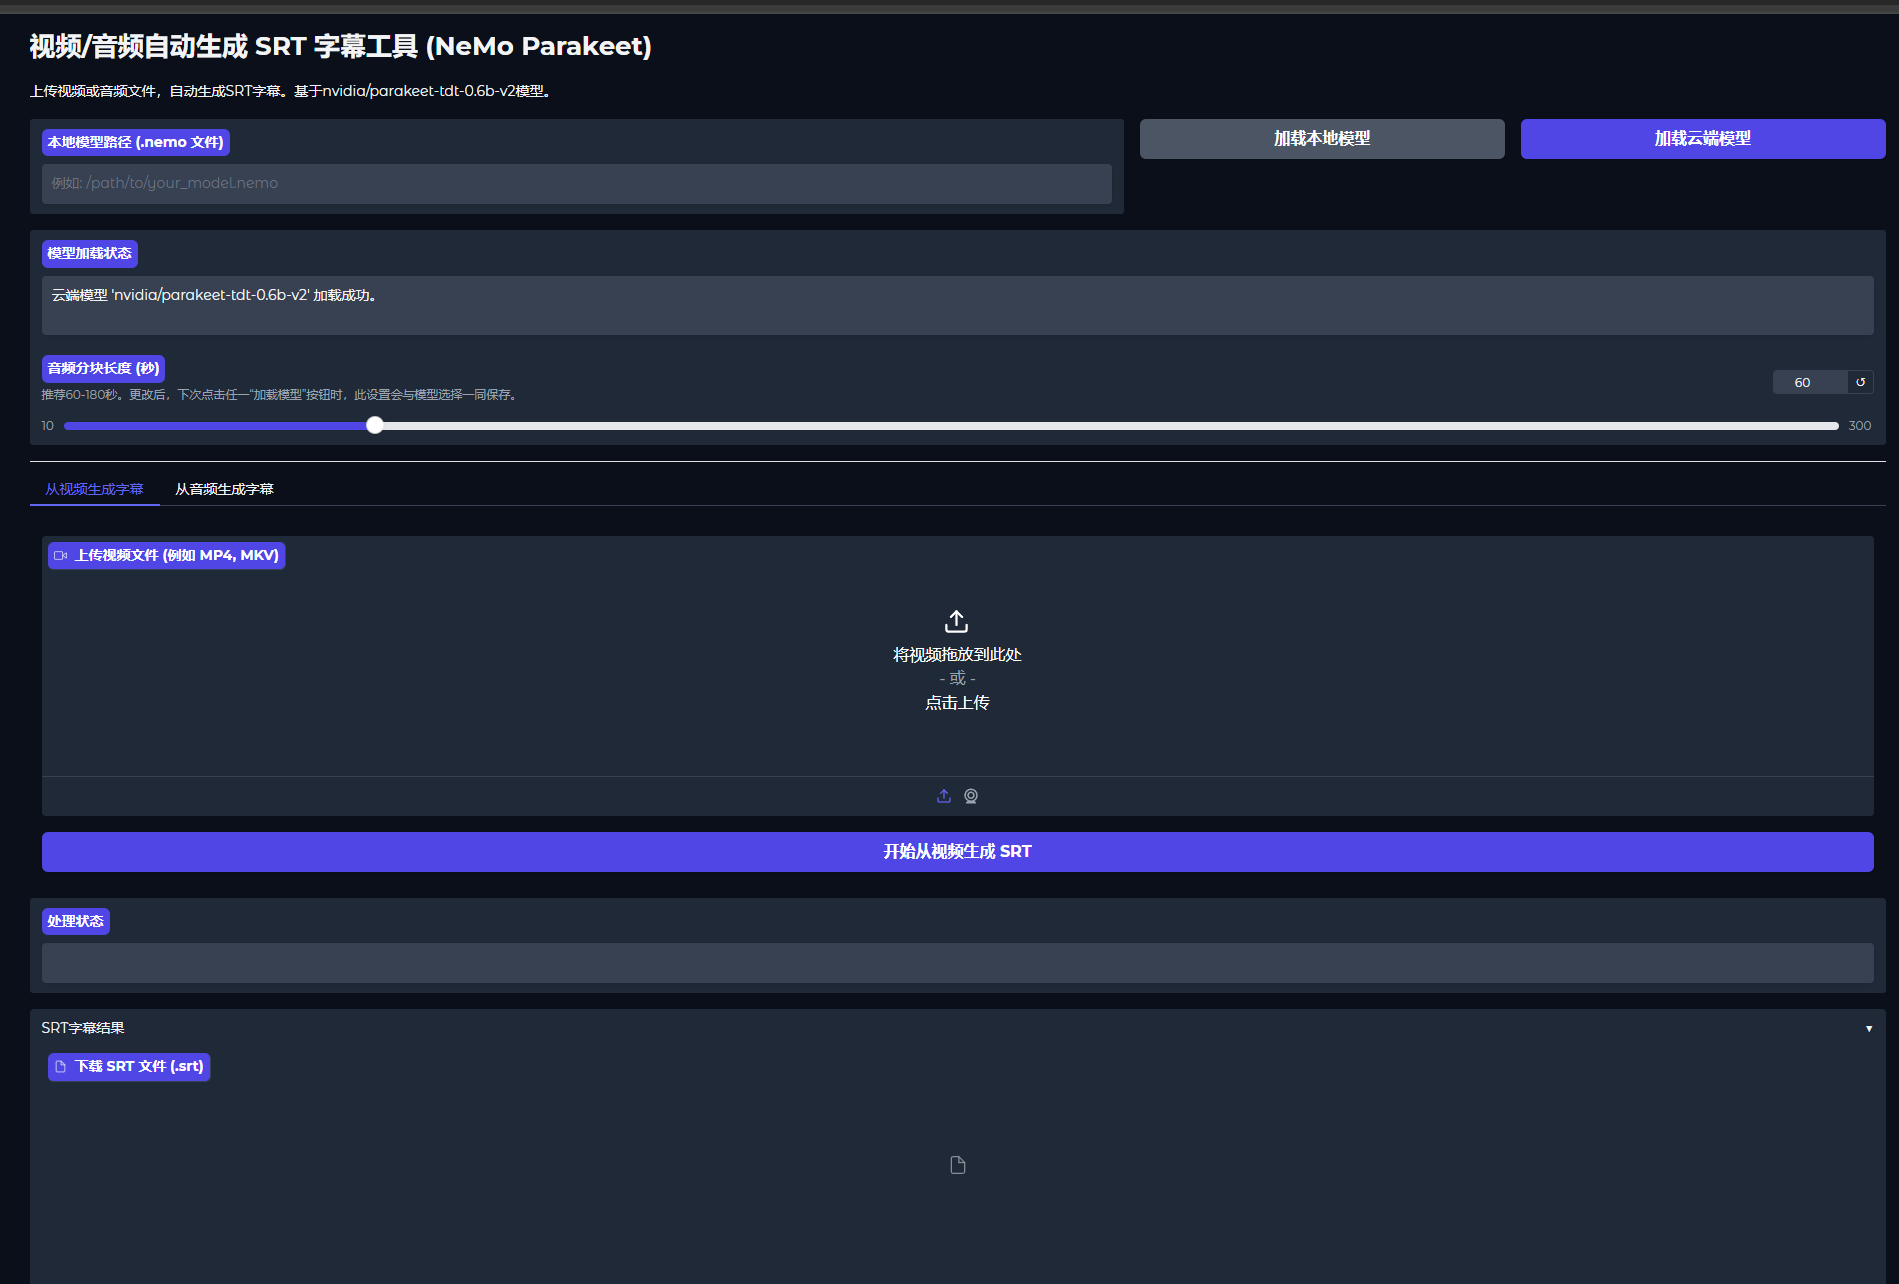
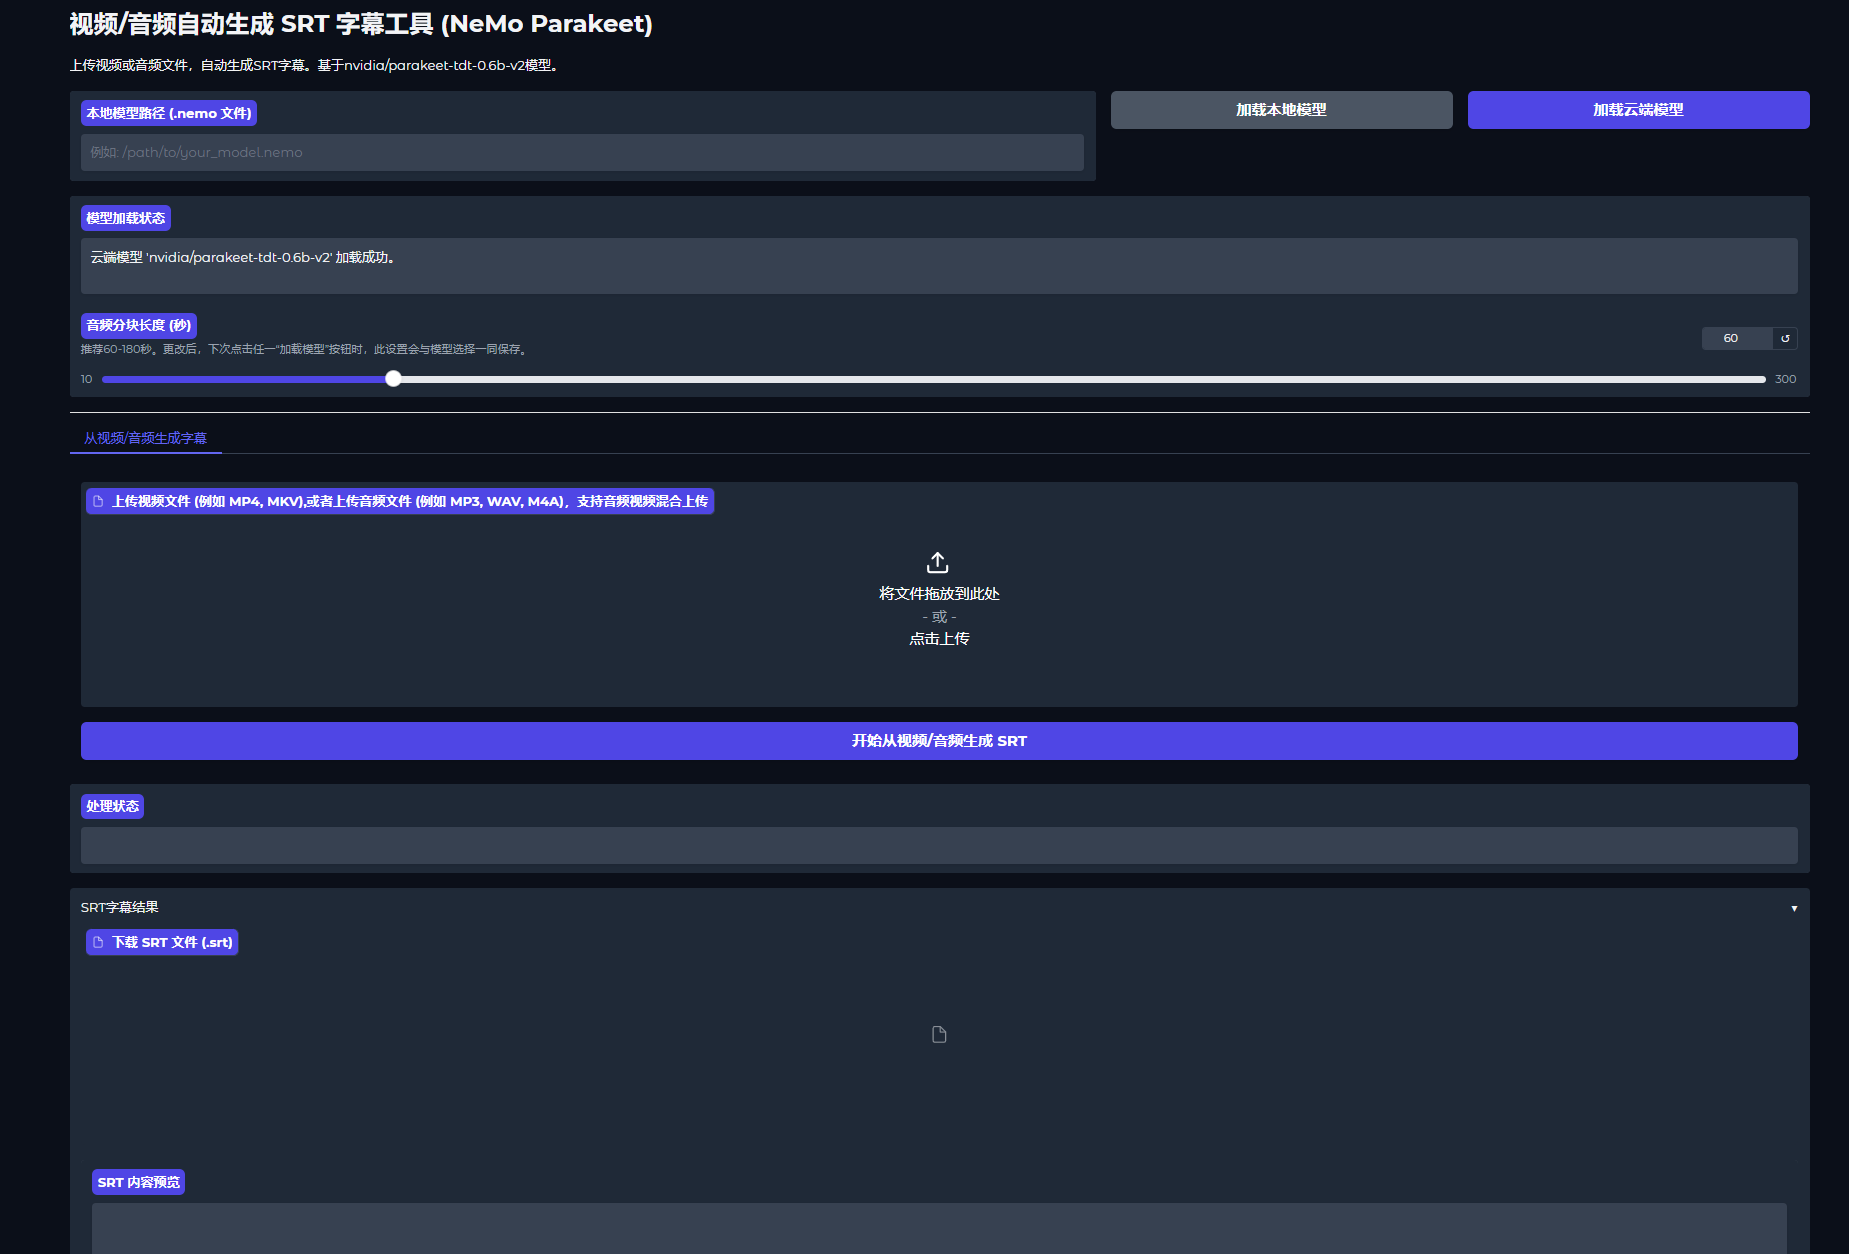
支持了批量转录，混合转录，文件名一致性

diff --git a/main.py b/main.py
@@ -11,8 +11,12 @@ import json
 CONFIG_FILENAME = "config.json"
 asr_model = None  # 初始化模型变量
 device = None     # 初始化设备变量
+base_dir = os.path.dirname(os.path.abspath(__file__))
+subtitles_folder_name = "subtitles"
+subtitles_folder_path = os.path.join(base_dir, subtitles_folder_name)
 
 # --- 配置管理 ---
+
 def get_config_file_path():
     """获取脚本目录中配置文件的绝对路径。"""
     try:
@@ -154,14 +158,18 @@ def check_ffmpeg():
         print("错误：ffmpeg 未检测到或未正确安装。请安装 ffmpeg 并确保其在系统 PATH 中。")
         return False
 
-def extract_audio_from_video(input_video_path: str) -> str:
+def extract_audio_from_video(input_media_path: str) -> str:
+    """
+    使用 ffmpeg 从视频文件中提取音频并转换为 WAV 格式。
+    返回提取的音频文件路径，或在失败时返回 None。
+    """
     if not check_ffmpeg(): return None
     temp_audio_file = tempfile.NamedTemporaryFile(suffix=".wav", delete=False)
     output_audio_path = temp_audio_file.name
     temp_audio_file.close()
 
     ffmpeg_command = [
-        'ffmpeg', '-i', input_video_path, '-vn', '-acodec', 'pcm_s16le',
+        'ffmpeg', '-i', input_media_path, '-vn', '-acodec', 'pcm_s16le',
         '-ar', '16000', '-ac', '1', '-y', output_audio_path
     ]
     try:
@@ -220,6 +228,16 @@ def format_srt_time(seconds):
     return f"{hours:02}:{minutes:02}:{secs:02},{milliseconds:03}"
 
 def transcribe_audio_in_chunks(model, audio_path: str, chunk_length_ms: int) -> list:
+    """
+    将音频文件分块转录并返回带有全局时间戳的段列表。
+    ARGS:
+        model: 已加载的 NeMo ASR 模型。
+        audio_path: 音频文件路径 (假设为 WAV)。
+        chunk_length_ms: 每块的长度（毫秒）。
+    RETURNS:
+        包含 {'start': float, 'end': float, 'segment': str} 的列表。
+    
+    """
     if model is None:
         print("模型未加载，无法进行转录。")
         return []
@@ -286,6 +304,13 @@ def transcribe_audio_in_chunks(model, audio_path: str, chunk_length_ms: int) -> 
     return all_segment_timestamps
 
 def generate_srt_content(segment_timestamps: list) -> str:
+    """
+    根据时间戳列表生成 SRT 格式的字幕内容。
+    ARGS:
+        segment_timestamps: 包含 {'start': float, 'end': float, 'segment': str} 的列表。
+    RETURNS:
+        SRT 格式的字符串。
+    """
     srt_content = ""
     for i, stamp in enumerate(segment_timestamps):
         subtitle_number = i + 1
@@ -297,115 +322,75 @@ def generate_srt_content(segment_timestamps: list) -> str:
     return srt_content
 
 # --- Gradio 处理函数 ---
-def process_video_for_srt(video_file_obj, chunk_length_s: int):
+def process_media_for_srt(media_file_objs: list, chunk_length_s: int):
     if asr_model is None:
         yield "错误：ASR 模型未加载。请先加载模型。", None, ""
         return
-    if video_file_obj is None:
-        yield "请上传一个视频文件。", None, ""
+    if media_file_objs is None:
+        yield "请上传至少一个视频文件。", None, ""
         return
     
-    input_video_path = video_file_obj # Gradio Video 对象具有 .name 属性表示路径
-    print(f"开始处理视频文件: {input_video_path}")
+    output_srt_paths_for_downloads = []
     start_time_total = time.time()
-    extracted_audio_path = None
-    output_srt_path_for_download = None # 用于 Gradio File 组件
 
-    try:
-        yield "状态：正在提取音频...", None, ""
-        extracted_audio_path = extract_audio_from_video(input_video_path)
-        if not extracted_audio_path:
-            yield "错误：音频提取失败。请检查视频文件或ffmpeg安装。", None, ""
-            return
-
-        chunk_length_ms = chunk_length_s * 1000
-        yield f"状态：正在转录音频 (分块大小: {chunk_length_s}秒)...", None, ""
-        segment_timestamps = transcribe_audio_in_chunks(asr_model, extracted_audio_path, chunk_length_ms)
-
-        if not segment_timestamps:
-            yield "错误：转录未生成有效的分段时间戳。", None, ""
-            return
-
-        yield "状态：正在生成 SRT 内容...", None, ""
-        srt_content = generate_srt_content(segment_timestamps)
-
-        with tempfile.NamedTemporaryFile(mode="w", encoding='utf-8', suffix=".srt", delete=False) as tmp_srt_file:
-            tmp_srt_file.write(srt_content)
-            output_srt_path_for_download = tmp_srt_file.name
+    for media_file_obj in media_file_objs:
+        input_media_path = media_file_obj # Gradio Video 对象具有 .name 属性表示路径
+        print(f"开始处理视频/音频文件: {input_media_path}")
         
-        elapsed_time_total = time.time() - start_time_total
-        status_message = f"处理完成。总耗时 {elapsed_time_total:.2f} 秒。"
-        print(f"{status_message} SRT 文件位于: {output_srt_path_for_download}")
-        yield status_message, output_srt_path_for_download, srt_content
-
-    except Exception as e:
-        import traceback
-        traceback.print_exc()
-        yield f"处理过程中发生未知错误: {e}", None, ""
-    finally:
-        if extracted_audio_path and os.path.exists(extracted_audio_path):
-            try: os.remove(extracted_audio_path)
-            except OSError as e_clean: print(f"清理临时音频文件 {extracted_audio_path} 时出错: {e_clean}")
-        # Gradio 会处理 output_srt_path_for_download（它提供的临时文件）的删除
-
-def process_audio_for_srt(audio_file_path_str, chunk_length_s: int): # 音频输入类型："filepath"
-    if asr_model is None:
-        yield "错误：ASR 模型未加载。请先加载模型。", None, ""
-        return
-    if not audio_file_path_str:
-        yield "请上传一个音频文件。", None, ""
-        return
-
-    print(f"开始处理音频文件: {audio_file_path_str}")
-    start_time_total = time.time()
-    processed_audio_path = None
-    output_srt_path_for_download = None
-
-    try:
-        if not check_ffmpeg(): # 再次检查，尽管初始检查是好的
-            yield "错误: FFMPEG 未安装或未在 PATH 中，无法处理音频。", None, ""
-            return
-
-        yield "状态：正在预处理音频文件...", None, ""
-        processed_audio_path = preprocess_direct_audio(audio_file_path_str)
-        if not processed_audio_path:
-            yield "错误：音频预处理失败。", None, ""
-            return
+        extracted_audio_path = None
+        output_srt_path_for_download = None # 用于 Gradio File 组件
         
-        chunk_length_ms = chunk_length_s * 1000
-        yield f"状态：准备转录音频 (分块大小: {chunk_length_s}秒)...", None, ""
-        segment_timestamps = transcribe_audio_in_chunks(asr_model, processed_audio_path, chunk_length_ms)
+        try:
+            yield f"状态：正在提取 {os.path.basename(input_media_path)} 的音频...", None, ""
+            extracted_audio_path = extract_audio_from_video(input_media_path)
+            if not extracted_audio_path:
+                yield "错误：音频提取失败。请检查视频文件或ffmpeg安装。", None, ""
+                return
 
-        if not segment_timestamps:
-            yield "错误：转录未生成有效的分段时间戳。", None, ""
-            return
+            chunk_length_ms = chunk_length_s * 1000
+            yield f"状态：正在转录音频 (分块大小: {chunk_length_s}秒)...", None, ""
+            segment_timestamps = transcribe_audio_in_chunks(asr_model, extracted_audio_path, chunk_length_ms)
 
-        yield "状态：正在生成 SRT 内容...", None, ""
-        srt_content = generate_srt_content(segment_timestamps)
+            if not segment_timestamps:
+                yield "错误：转录未生成有效的分段时间戳。", None, ""
+                return
 
-        with tempfile.NamedTemporaryFile(mode="w", encoding='utf-8', suffix=".srt", delete=False) as tmp_srt_file:
-            tmp_srt_file.write(srt_content)
-            output_srt_path_for_download = tmp_srt_file.name
+            yield "状态：正在生成 SRT 内容...", None, ""
+            srt_content = generate_srt_content(segment_timestamps)
+            srt_file_name = os.path.basename(input_media_path).rsplit('.', 1)[0]+'.srt'
+            if not os.path.exists(subtitles_folder_path):
+                os.makedirs(subtitles_folder_path, exist_ok=True) 
+            output_srt_path_for_download = os.path.join(subtitles_folder_path, srt_file_name)
             
-        elapsed_time_total = time.time() - start_time_total
-        status_message = f"音频处理完成。总耗时 {elapsed_time_total:.2f} 秒。"
-        print(f"{status_message} SRT 文件位于: {output_srt_path_for_download}")
-        yield status_message, output_srt_path_for_download, srt_content
+            with open(output_srt_path_for_download, "w", encoding='utf-8') as srt_file:
+                srt_file.write(srt_content)
 
-    except Exception as e:
-        import traceback
-        traceback.print_exc()
-        yield f"处理音频过程中发生未知错误: {e}", None, ""
-    finally:
-        if processed_audio_path and os.path.exists(processed_audio_path) and processed_audio_path != audio_file_path_str:
-            try: os.remove(processed_audio_path)
-            except OSError as e_clean: print(f"清理预处理的音频文件 {processed_audio_path} 时出错: {e_clean}")
+            output_srt_paths_for_downloads.append(output_srt_path_for_download)
+            
+           
+            print(f"{status_message} SRT 文件位于: {output_srt_path_for_download}")
+            
+
+        except Exception as e:
+            import traceback
+            traceback.print_exc()
+            yield f"处理过程中发生未知错误: {e}", None, ""
+        finally:
+            if extracted_audio_path and os.path.exists(extracted_audio_path):
+                try: os.remove(extracted_audio_path)
+                except OSError as e_clean: print(f"清理临时音频文件 {extracted_audio_path} 时出错: {e_clean}")
+
+        elapsed_time_total = time.time() - start_time_total
+        status_message = f"处理完成。总耗时 {elapsed_time_total:.2f} 秒。生成{len(output_srt_paths_for_downloads)} 个 SRT 文件。"
+        yield status_message, output_srt_paths_for_downloads, srt_content
+            # Gradio 会处理 output_srt_path_for_download（它提供的临时文件）的删除
 
 
 # --- Gradio 界面设置 ---
 if __name__ == "__main__":
     if not check_ffmpeg():
         print("重要提示: FFMPEG 未找到。视频和音频处理功能将受限或无法工作。")
+
 
     # --- 启动时模型加载逻辑 ---
     config = load_config()
@@ -472,18 +457,13 @@ if __name__ == "__main__":
         )
         gr.Markdown("---")
 
-        with gr.Tab("从视频生成字幕"):
-            video_input = gr.Video(label="上传视频文件 (例如 MP4, MKV)")
-            video_submit_button = gr.Button("开始从视频生成 SRT", variant="primary")
-        
-        with gr.Tab("从音频生成字幕"):
-            # 对于音频，type="filepath" 对于 ffmpeg 处理通常更健壮
-            audio_input = gr.Audio(label="上传音频文件 (例如 MP3, WAV, M4A)", type="filepath")
-            audio_submit_button = gr.Button("开始从音频生成 SRT", variant="primary")
+        with gr.Tab("从视频/音频生成字幕"):
+            video_input = gr.File(label="上传视频文件 (例如 MP4, MKV),或者上传音频文件 (例如 MP3, WAV, M4A)，支持音频视频混合上传", file_count='multiple')
+            media_submit_button = gr.Button("开始从视频/音频生成 SRT", variant="primary")
 
         status_output = gr.Textbox(label="处理状态", lines=1, interactive=False)
         with gr.Accordion("SRT字幕结果", open=True):
-            srt_file_output = gr.File(label="下载 SRT 文件 (.srt)", interactive=False)
+            srt_file_output = gr.File(label="下载 SRT 文件 (.srt)", interactive=False, file_count='multiple')
             srt_preview_output = gr.Textbox(label="SRT 内容预览", lines=10, max_lines=20, interactive=False)
 
         # --- 按钮点击处理程序 ---
@@ -516,17 +496,13 @@ if __name__ == "__main__":
             outputs=[model_status_output]
         )
 
-        video_submit_button.click(
-            fn=process_video_for_srt,
+        media_submit_button.click(
+            fn=process_media_for_srt,
             inputs=[video_input, chunk_slider],
             outputs=[status_output, srt_file_output, srt_preview_output]
         )
-        audio_submit_button.click(
-            fn=process_audio_for_srt,
-            inputs=[audio_input, chunk_slider],
-            outputs=[status_output, srt_file_output, srt_preview_output]
-        )
-        
+        gr.Markdown("---")
+        gr.Markdown("本地 SRT 文件保存在脚本目录下的 `subtitles` 文件夹中。")
         gr.Markdown("---")
         gr.Markdown("注意: 处理速度取决于您的硬件 (GPU/CPU) 和文件大小。")
         if device and device.type == 'cpu': # 检查设备是否已初始化

diff --git a/README.md b/README.md
@@ -14,6 +14,7 @@
 *   自动检测 CUDA GPU，优先使用 GPU 进行加速处理；若无 GPU，则在 CPU 上运行 (速度较慢)。
 *   用户界面友好，操作简单。
 *   自动保存用户选择的模型和分块长度配置。
+*   支持批量转录和混合处理视频/音频文件
 
 
 
